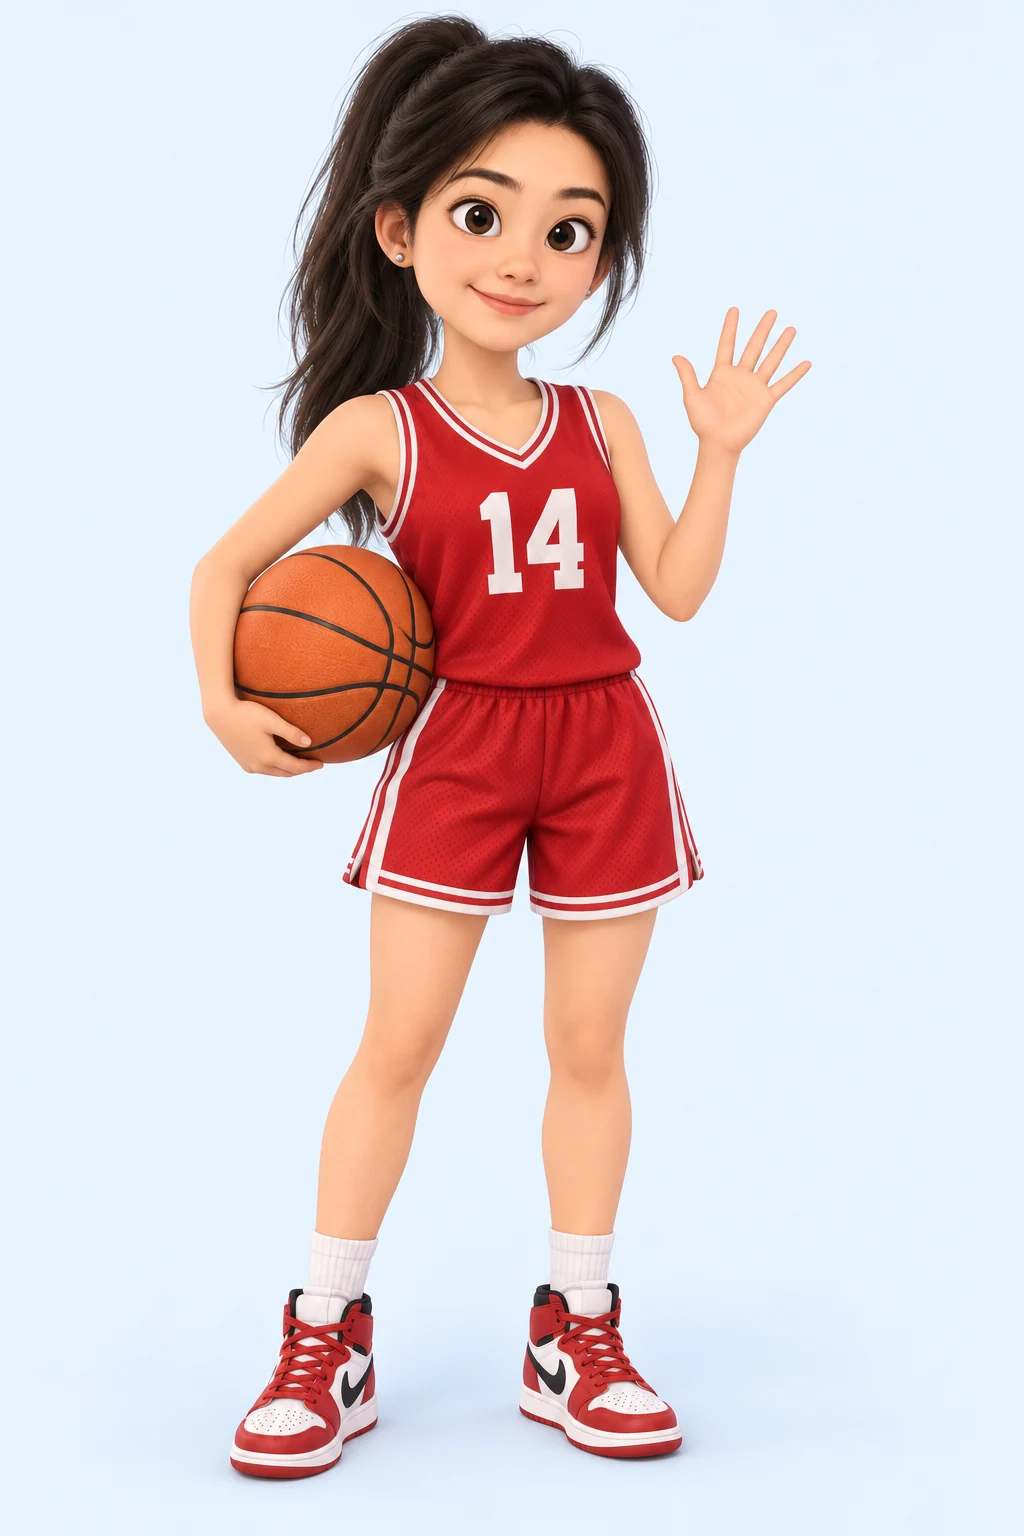
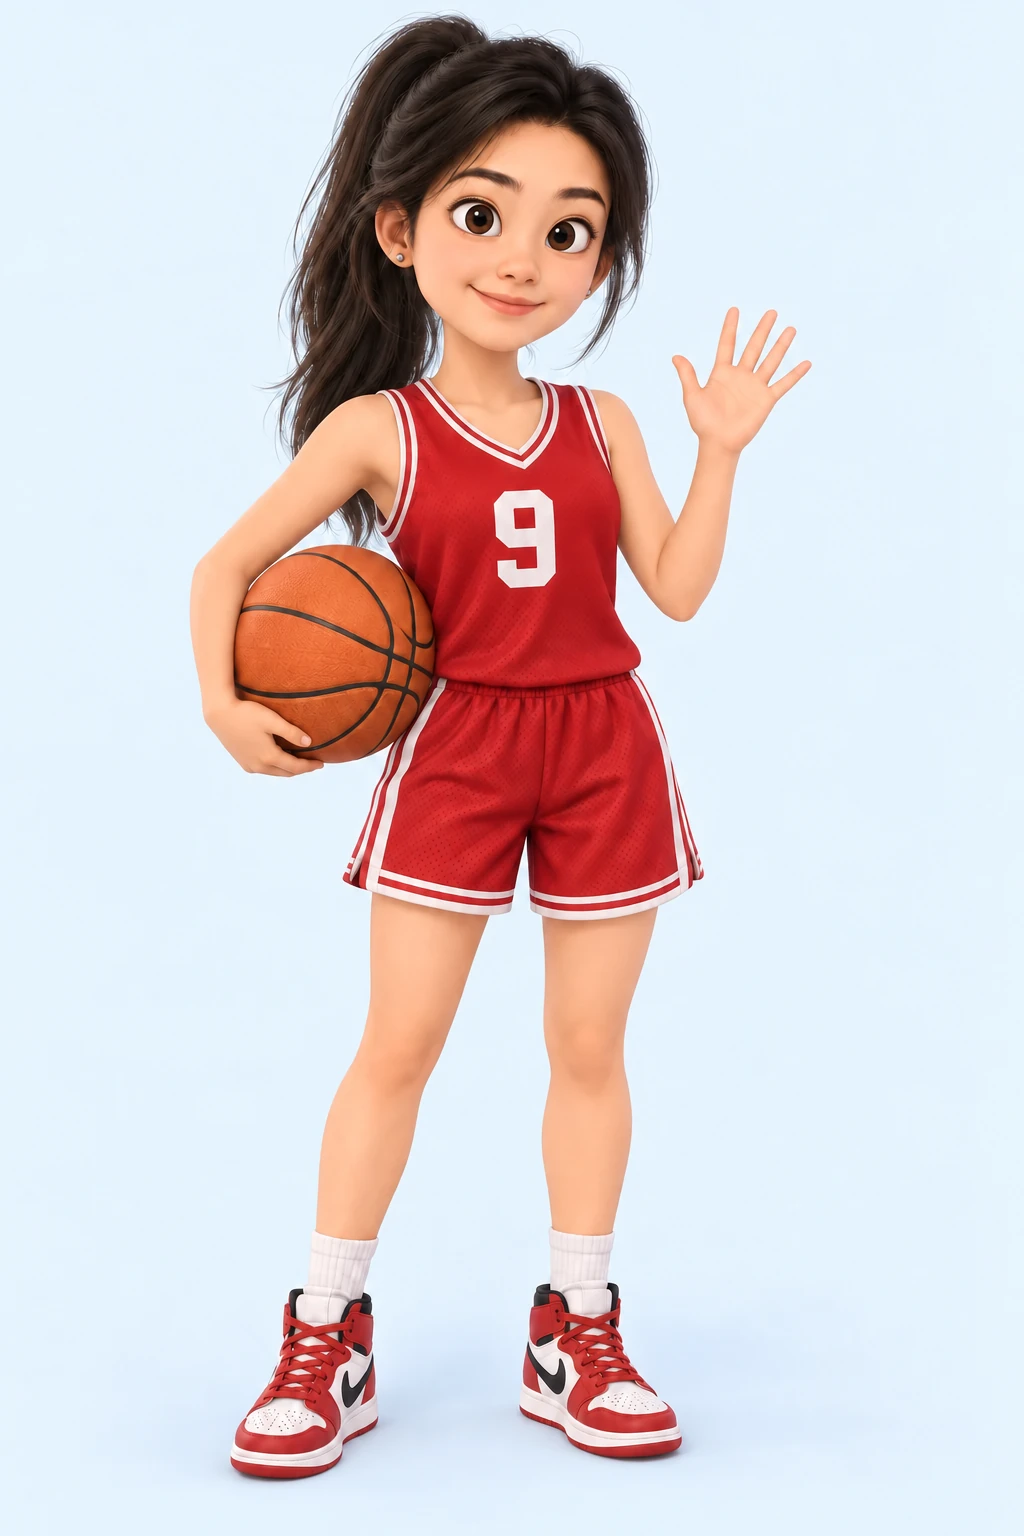
Update basketball jersey number to 9

diff --git a/index.html b/index.html
@@ -54,13 +54,13 @@
     <div class="section-heading"><div><p class="eyebrow">02 / A LITTLE MORE ABOUT ME</p><h2 data-i18n="aboutTitle">代码之外，也有热爱。</h2></div></div>
     <div class="about-grid">
       <div class="about-story"><h3 data-i18n="aboutLead">从理解业务，到构建系统。</h3><p data-i18n="aboutText">本科的信息管理与财经背景，让我习惯先问“这个问题为什么值得解决”。在数据科学的学习与实践中，我继续探索模型、数据管道与应用开发，也关注结果是否可信、证据能否追溯。</p><div class="skill-groups"><div><span data-i18n="skillData">数据与建模</span><p>Python · SQL · Pandas · scikit-learn</p></div><div><span data-i18n="skillBuild">构建与探索</span><p>FastAPI · RAG · LLM · Agent</p></div></div><div class="education"><p class="eyebrow" data-i18n="education">教育经历</p><div class="education-row"><span class="education-dot"></span><div><h4 data-i18n="masterSchool">香港中文大学（深圳）</h4><p data-i18n="masterDegree">数据科学 · 硕士</p></div><time>2025 — 2027*</time></div><div class="education-row"><span class="education-dot hollow"></span><div><h4 data-i18n="bachelorSchool">中央财经大学</h4><p data-i18n="bachelorDegree">信息管理与信息系统 · 本科</p></div><time>2021 — 2025</time></div><p class="education-note" data-i18n="expectedNote">* 预计 2027 年 7 月毕业</p></div></div>
-      <div class="hobby-card" id="hobby-card"><div class="hobby-topline"><span class="eyebrow">OFF THE KEYBOARD</span><span class="jersey-number" aria-hidden="true">14</span></div><h3 data-i18n-html="hobbyTitle">离开键盘，<br>就去球场。</h3><p data-i18n="hobbyIntro">另一种专注，另一种快乐。</p><button class="button hobby-button" id="basketball-button"><span data-i18n="hobbyButton">解锁我的篮球模式</span><span aria-hidden="true">↗</span></button><span class="hobby-footnote" data-i18n="hobbyFootnote">一枚关于热爱的小彩蛋</span></div>
+      <div class="hobby-card" id="hobby-card"><div class="hobby-topline"><span class="eyebrow">OFF THE KEYBOARD</span><span class="jersey-number" aria-hidden="true">9</span></div><h3 data-i18n-html="hobbyTitle">离开键盘，<br>就去球场。</h3><p data-i18n="hobbyIntro">另一种专注，另一种快乐。</p><button class="button hobby-button" id="basketball-button"><span data-i18n="hobbyButton">解锁我的篮球模式</span><span aria-hidden="true">↗</span></button><span class="hobby-footnote" data-i18n="hobbyFootnote">一枚关于热爱的小彩蛋</span></div>
     </div>
   </section>
   <section class="contact-section section-shell" id="contact"><div><p class="eyebrow">03 / LET’S CONNECT</p><h2 data-i18n-html="contactTitle">有好问题？<br><span>一起聊聊。</span></h2><p data-i18n="contactIntro">关于数据、AI、项目，或者一个有趣的想法。</p></div><div class="contact-links"><a class="email-link" href="mailto:bingjunlong@link.cuhk.edu.cn">bingjunlong@link.cuhk.edu.cn<span aria-hidden="true">↗</span></a><div class="contact-actions"><button id="copy-email" class="text-link"><span data-i18n="copyEmail">复制邮箱</span><span aria-hidden="true">⧉</span></button><a href="https://github.com/longbingjun" target="_blank" rel="noopener noreferrer" class="text-link">GitHub <span aria-hidden="true">↗</span></a></div><span id="copy-status" role="status" aria-live="polite"></span></div></section>
 </main>
 <footer class="site-footer section-shell"><span>© <span id="year">2026</span> Bingjun Long</span><span data-i18n="footer">认真做事，也认真生活。</span><a href="#home" data-i18n="backTop">回到顶部 ↑</a></footer>
 <dialog id="project-dialog" class="project-dialog"><div class="dialog-top"><span class="eyebrow">PROJECT NOTES</span><button class="icon-control close-dialog" id="close-project" aria-label="关闭项目详情" data-label="closeProject">✕</button></div><div id="project-detail"></div></dialog>
-<dialog id="basketball-dialog" class="basketball-dialog" aria-labelledby="basketball-title"><button class="icon-control close-dialog" id="close-basketball" aria-label="关闭篮球彩蛋" data-label="closeHobby">✕</button><div class="basketball-content"><div class="basketball-art" id="basketball-art"></div><div class="basketball-copy"><p class="eyebrow">BINGJUN / NO. 14</p><h2 id="basketball-title" data-i18n-html="basketballTitle">今天的快乐，<br>球场见。</h2><p data-i18n="basketballText">写代码时认真，打篮球也一样。换上 14 号球衣，给好奇心放个课间。</p><button class="button primary" id="basketball-cheer"><span data-i18n="cheer">给 14 号加油</span><span aria-hidden="true">✦</span></button><p id="cheer-status" role="status" aria-live="polite"></p></div></div></dialog>
-<script src="content.js?v=20260918-direct-demo-entry"></script><script src="app.js?v=20260918-direct-demo-entry"></script>
+<dialog id="basketball-dialog" class="basketball-dialog" aria-labelledby="basketball-title"><button class="icon-control close-dialog" id="close-basketball" aria-label="关闭篮球彩蛋" data-label="closeHobby">✕</button><div class="basketball-content"><div class="basketball-art" id="basketball-art"></div><div class="basketball-copy"><p class="eyebrow">BINGJUN / NO. 9</p><h2 id="basketball-title" data-i18n-html="basketballTitle">今天的快乐，<br>球场见。</h2><p data-i18n="basketballText">写代码时认真，打篮球也一样。换上 9 号球衣，给好奇心放个课间。</p><button class="button primary" id="basketball-cheer"><span data-i18n="cheer">给 9 号加油</span><span aria-hidden="true">✦</span></button><p id="cheer-status" role="status" aria-live="polite"></p></div></div></dialog>
+<script src="content.js?v=20260918-direct-demo-entry"></script><script src="app.js?v=20260918-jersey-9"></script>
 </body></html>

diff --git a/app.js b/app.js
@@ -10,6 +10,18 @@
       skip:'Skip to main content',navigation:'Main navigation',navProjects:'Work',navAbout:'About',navContact:'Contact',heroTitle:'Hi, I’m<br><span class="name-accent">Bingjun</span><span class="blue-period">.</span>',heroDescription:'Finding patterns in data.<br> Building ideas into useful tools.',explore:'Explore my work',heroMini:'Stay curious. Keep building.',greetLabel:'Say hello to Bingjun',avatarAlt:'Cartoon Bingjun in a blue hoodie with silver stud earrings',sayHi:'Click to say hello',atGlance:'ABOUT ME / AT A GLANCE',profileTitle:'A mind for data.<br>A life of curiosity.',profileIntro:'MSc student in Data Science at CUHK-Shenzhen, exploring data mining, machine learning and trustworthy AI applications.',based:'Based in',shenzhen:'Shenzhen, China',graduation:'Graduating',moreAbout:'A little more about me',openRoles:'Exploring data science, data mining & data engineering roles',scroll:'Scroll to explore',projectsTitle:'Starting with questions.<span> Answering through work.</span>',projectsIntro:'Business analytics, machine learning and AI systems.<br>A growing collection of experiments.',aboutTitle:'There’s life beyond the keyboard.',aboutLead:'From understanding the business to building the system.',aboutText:'My background in information management and economics taught me to start with “Why is this problem worth solving?” Through data science, I’m exploring models, data pipelines and application development—with an eye on trustworthy results and traceable evidence.',skillData:'Data & modeling',skillBuild:'Building & exploring',education:'EDUCATION',masterSchool:'The Chinese University of Hong Kong, Shenzhen',masterDegree:'MSc · Data Science',bachelorSchool:'Central University of Finance and Economics',bachelorDegree:'Bachelor’s · Information Management & Information Systems',expectedNote:'* Expected graduation: July 2027',hobbyTitle:'Close the laptop.<br>Hit the court.',hobbyIntro:'A different kind of focus. The same joy.',hobbyButton:'Unlock basketball mode',hobbyFootnote:'A little easter egg about what I love',contactTitle:'A good question?<br><span>Let’s talk.</span>',contactIntro:'Data, AI, a project, or an interesting idea.',copyEmail:'Copy email',footer:'Build with care. Live with curiosity.',backTop:'Back to top ↑',closeProject:'Close project details',closeHobby:'Close basketball easter egg',basketballTitle:'Find me<br>on the court.',basketballText:'Focused on code. Just as focused on basketball. Jersey number 14 is my way to give curiosity a little recess.',cheer:'Cheer for number 14',detailButton:'Project details',demoCard:'Watch full walkthrough',videoTitle:'Project walkthrough · Coming later',videoText:'The system runs on a company intranet. A video will demonstrate its workflow here.',demoPage:'Open full project walkthrough',viewCode:'View GitHub repository',greeting:'Hey! So nice to meet you.',cheered:'Number 14 heard you. On to the next play!',copied:'Email copied',copyFailed:'Select the email above to copy it.',lightTheme:'Switch to light mode',darkTheme:'Switch to dark mode',basketballAlt:'Cartoon Bingjun in a red number 14 basketball jersey, holding a ball and waving',dataUnits:'products covered',clvUnits:'Cox C-index',bankUnits:'best AUC',reasoningUnits:'AMC23 pass@64',motionOn:'Pause avatar animation',motionOff:'Enable avatar animation'
     }
   };
+  Object.assign(strings.zh, {
+    basketballText:'写代码时认真，打篮球也一样。换上 9 号球衣，给好奇心放个课间。',
+    cheer:'给 9 号加油',
+    cheered:'9 号收到！下一球，继续加油。',
+    basketballAlt:'秉君身穿红色 9 号篮球服，抱着篮球挥手'
+  });
+  Object.assign(strings.en, {
+    basketballText:'Focused on code. Just as focused on basketball. Jersey number 9 is my way to give curiosity a little recess.',
+    cheer:'Cheer for number 9',
+    cheered:'Number 9 heard you. On to the next play!',
+    basketballAlt:'Cartoon Bingjun in a red number 9 basketball jersey, holding a ball and waving'
+  });
   const storage = { get(k){try{return localStorage.getItem(k)}catch{return null}}, set(k,v){try{localStorage.setItem(k,v)}catch{}} };
   let lang = storage.get('bj-language') === 'en' ? 'en' : 'zh';
   let activeProject = null;
@@ -88,7 +100,7 @@
     dialog.addEventListener('close',()=>{document.body.classList.remove('modal-open');dialog.querySelector('video')?.pause();});
   }
   $('#basketball-button').addEventListener('click',()=>{
-    if(!$('#basketball-art img')) $('#basketball-art').innerHTML=`<img src="assets/basketball.webp" width="1024" height="1536" alt="${escape(t('basketballAlt'))}">`;
+    if(!$('#basketball-art img')) $('#basketball-art').innerHTML=`<img src="assets/basketball.webp?v=20260918-jersey-9" width="1024" height="1536" alt="${escape(t('basketballAlt'))}">`;
     $('#cheer-status').textContent='';hobbyDialog.showModal();document.body.classList.add('modal-open');
   });
   $('#basketball-cheer').addEventListener('click',()=>{hobbyDialog.classList.remove('is-cheering');void hobbyDialog.offsetWidth;hobbyDialog.classList.add('is-cheering');$('#cheer-status').textContent=t('cheered');});
